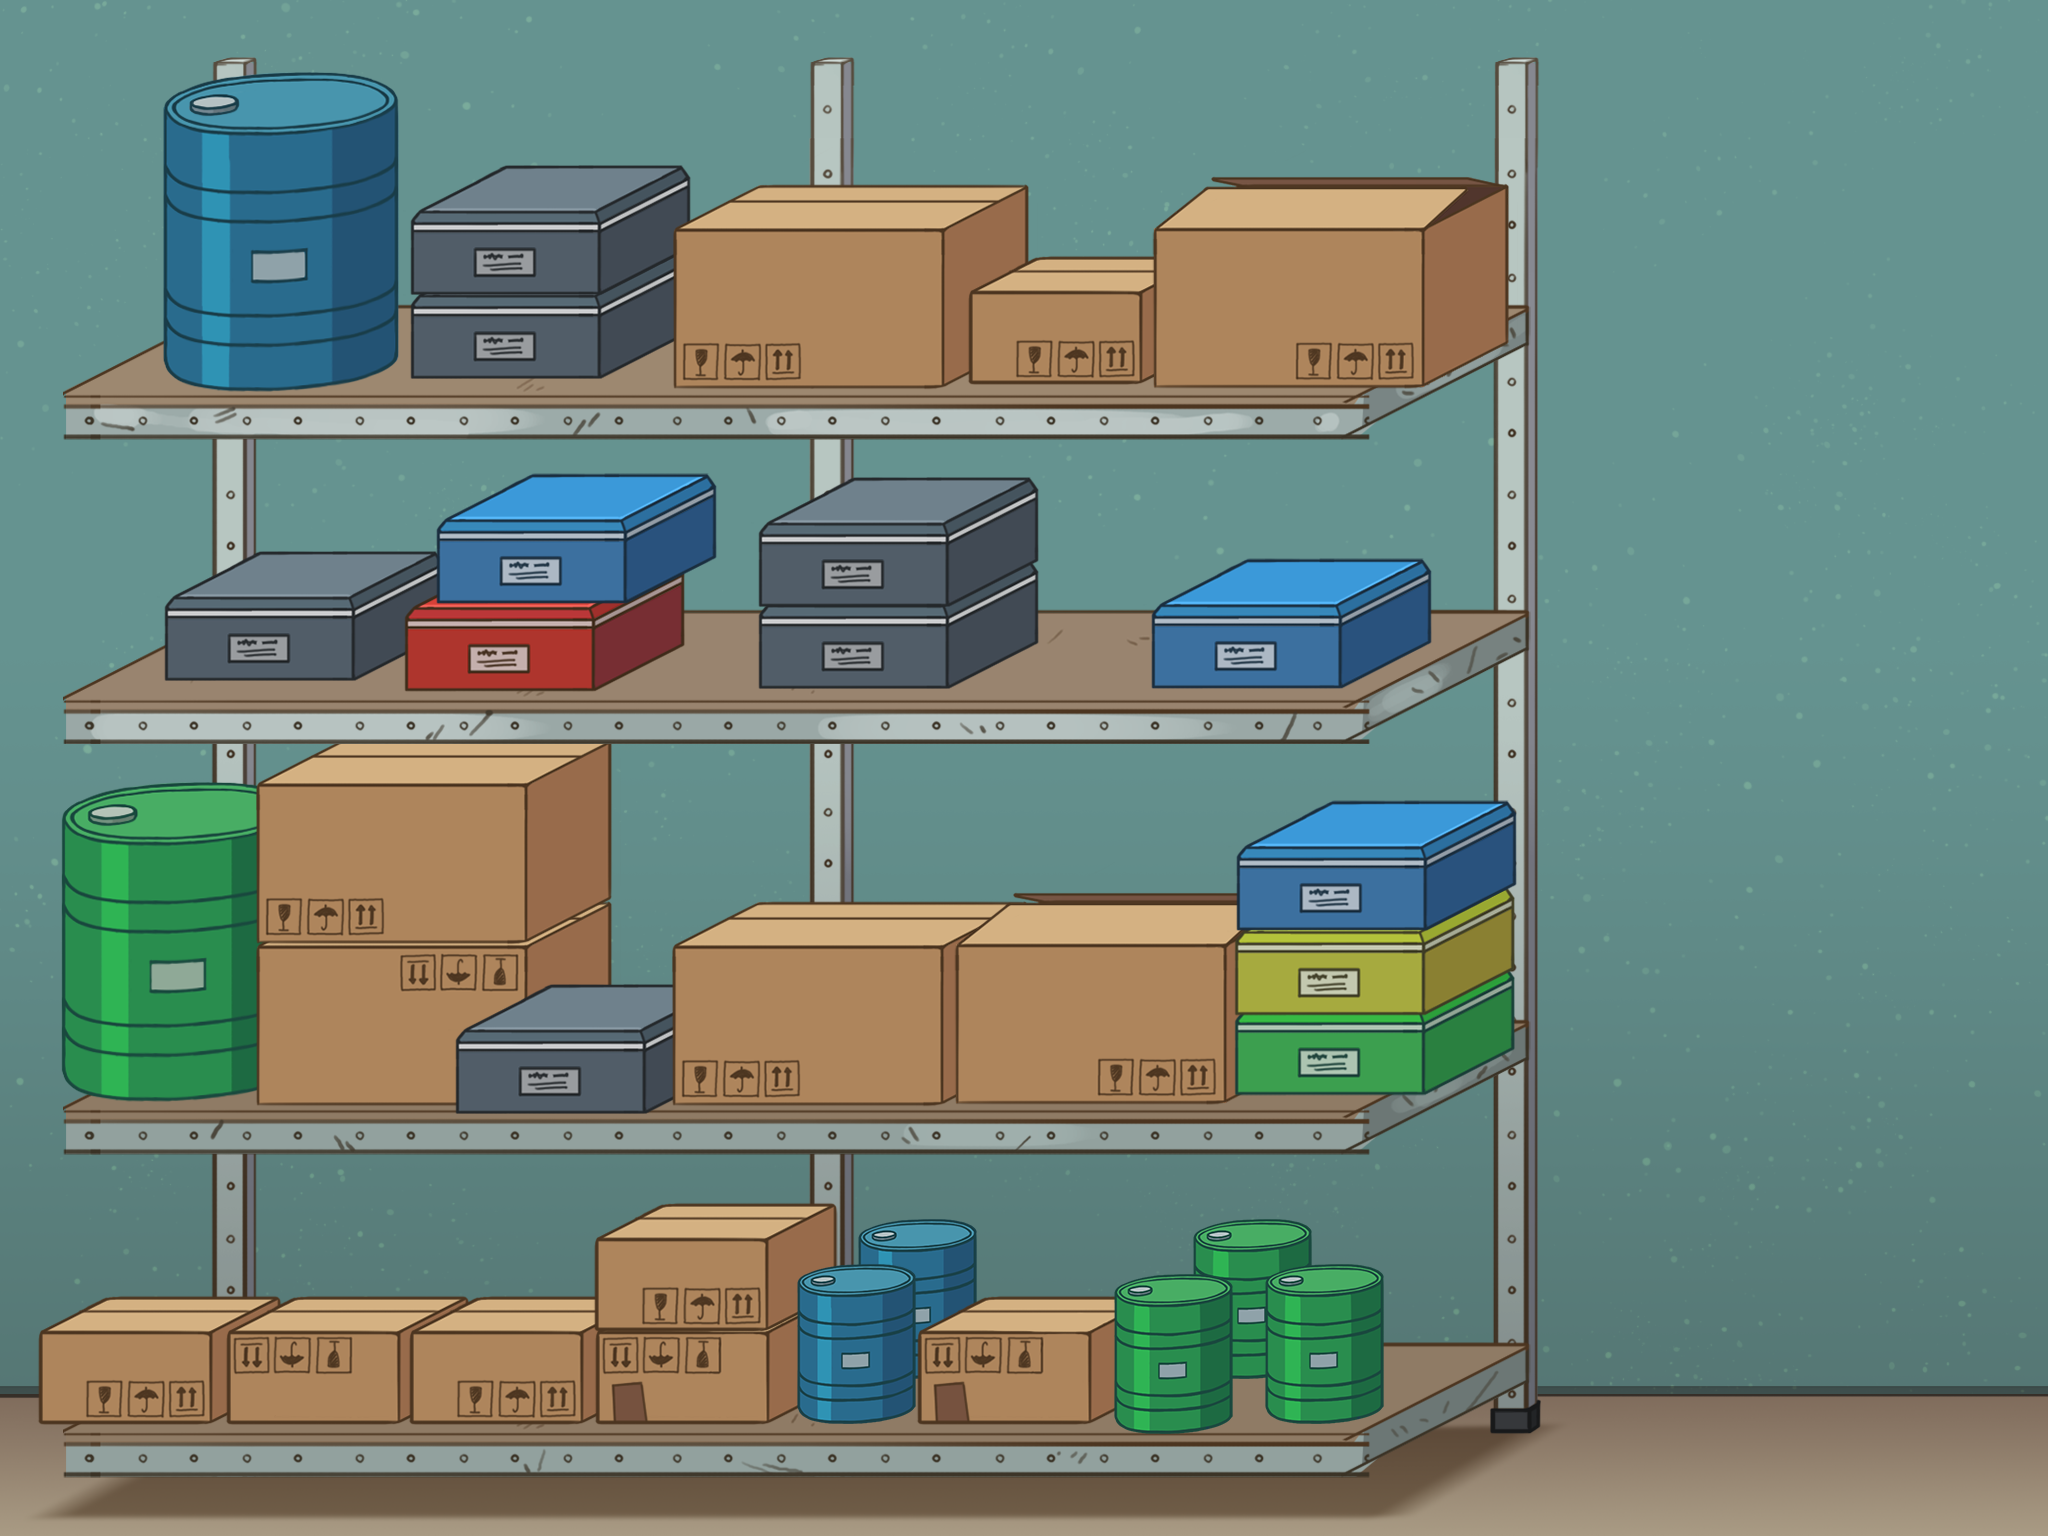
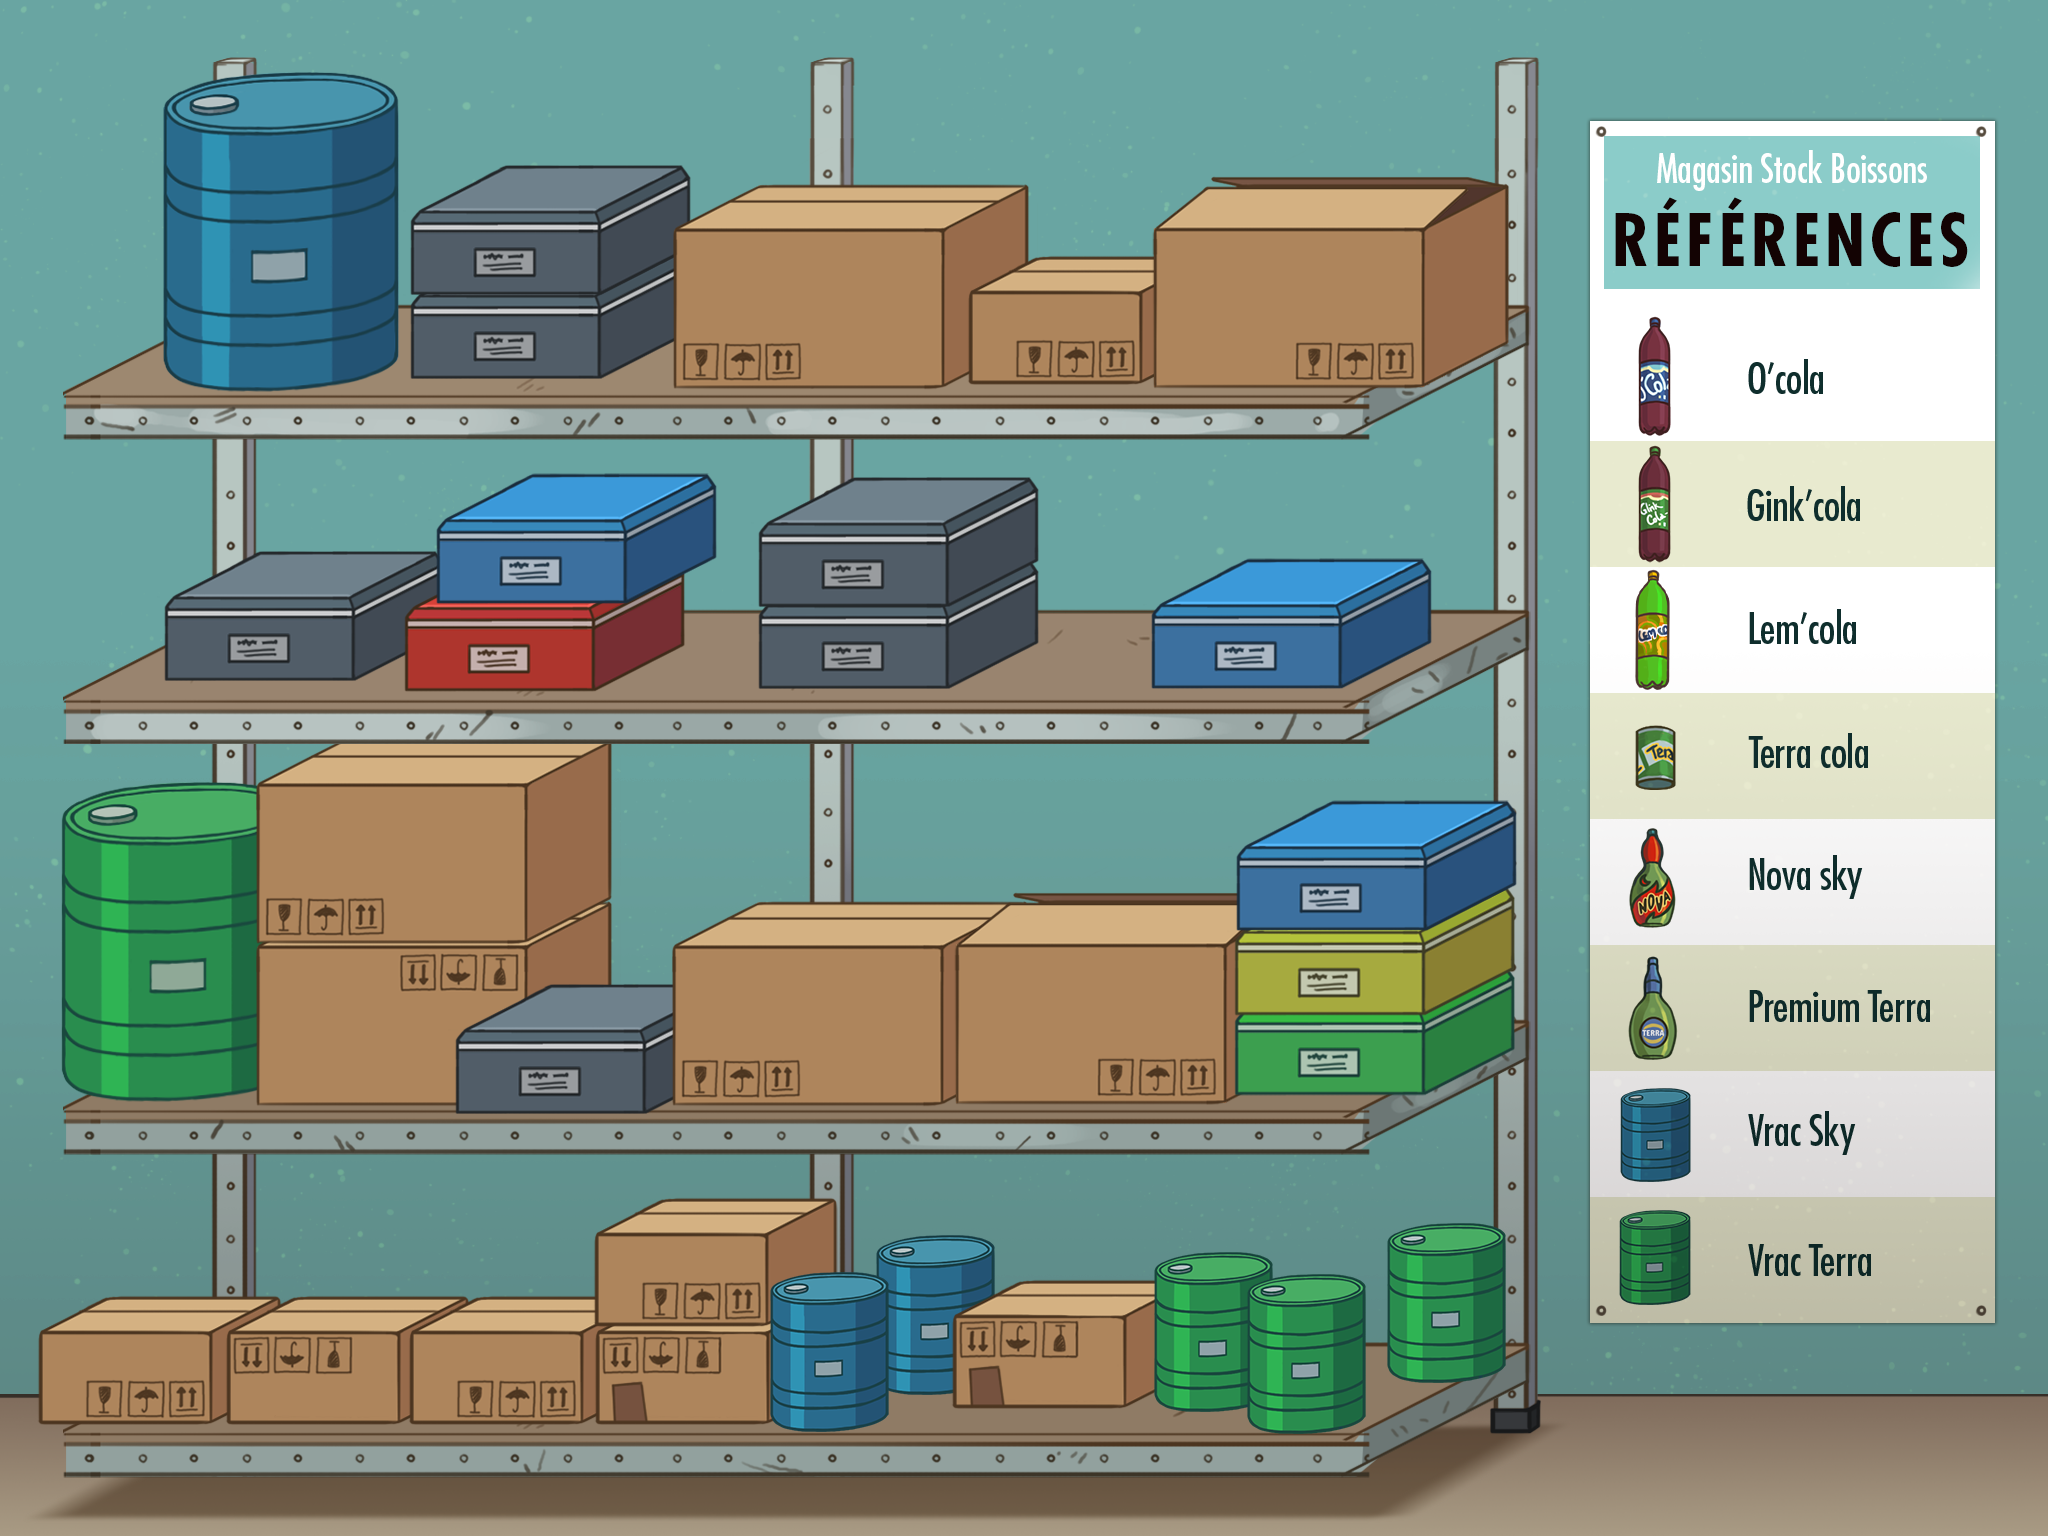
Intégère la fiche de référence dans l'image de fond et ajuste la position des contenants

Changed region(s): [[0.2812, 0.0625, 1.0, 0.9375]]

diff --git a/src/situations/inventaire/data/stock.js b/src/situations/inventaire/data/stock.js
@@ -33,14 +33,13 @@ const contenants = [
   { id: '21', idContenu: '4', type: 'ContenantUnitaire', forme: 'petitCarton', quantite: 1, posX: 230, posY: 1420, imageOuvert: require('inventaire/assets/petit-carton-3.png') },
   { id: '22', idContenu: '5', type: 'ContenantUnitaire', forme: 'petitCarton', quantite: 4, posX: 410, posY: 1420, imageOuvert: require('inventaire/assets/petit-carton-4.png') },
   { id: '23', idContenu: '7', type: 'ContenantUnitaire', forme: 'petitCarton', quantite: 3, posX: 600, posY: 1420, imageOuvert: require('inventaire/assets/petit-carton-5.png') },
-  { id: '24', idContenu: '7', type: 'ContenantUnitaire', forme: 'petitCarton', quantite: 0, posX: 600, posY: 1330, imageOuvert: require('inventaire/assets/petit-carton-vide.png') },
-  { id: '25', idContenu: '0', type: 'ContenantVrac', forme: 'petitBaril', quantite: 8, posX: 860, posY: 1365, imageOuvert: require('inventaire/assets/vrac-sky-8.png') },
-  { id: '26', idContenu: '0', type: 'ContenantVrac', forme: 'petitBaril', quantite: 13, posX: 799, posY: 1407, imageOuvert: require('inventaire/assets/vrac-sky-13.png') },
-  { id: '27', idContenu: '5', type: 'ContenantUnitaire', forme: 'petitCarton', quantite: 2, posX: 920, posY: 1420, imageOuvert: require('inventaire/assets/petit-carton-6.png') },
-  { id: '28', idContenu: '1', type: 'ContenantVrac', forme: 'petitBaril', quantite: 7, posX: 1195, posY: 1366, imageOuvert: require('inventaire/assets/vrac-terra-7.png') },
-  { id: '29', idContenu: '1', type: 'ContenantVrac', forme: 'petitBaril', quantite: 3, posX: 1115, posY: 1419, imageOuvert: require('inventaire/assets/vrac-terra-3.png') },
-  { id: '30', idContenu: '1', type: 'ContenantVrac', forme: 'petitBaril', quantite: 4, posX: 1267, posY: 1407, imageOuvert: require('inventaire/assets/vrac-terra-4.png') }
-
+  { id: '24', idContenu: '7', type: 'ContenantUnitaire', forme: 'petitCarton', quantite: 0, posX: 590, posY: 1330, imageOuvert: require('inventaire/assets/petit-carton-vide.png') },
+  { id: '25', idContenu: '0', type: 'ContenantVrac', forme: 'petitBaril', quantite: 8, posX: 770, posY: 1420, imageOuvert: require('inventaire/assets/vrac-sky-8.png') },
+  { id: '26', idContenu: '0', type: 'ContenantVrac', forme: 'petitBaril', quantite: 13, posX: 880, posY: 1380, imageOuvert: require('inventaire/assets/vrac-sky-13.png') },
+  { id: '27', idContenu: '5', type: 'ContenantUnitaire', forme: 'petitCarton', quantite: 2, posX: 955, posY: 1405, imageOuvert: require('inventaire/assets/petit-carton-6.png') },
+  { id: '28', idContenu: '1', type: 'ContenantVrac', forme: 'petitBaril', quantite: 7, posX: 1155, posY: 1395, imageOuvert: require('inventaire/assets/vrac-terra-7.png') },
+  { id: '29', idContenu: '1', type: 'ContenantVrac', forme: 'petitBaril', quantite: 3, posX: 1250, posY: 1417, imageOuvert: require('inventaire/assets/vrac-terra-3.png') },
+  { id: '30', idContenu: '1', type: 'ContenantVrac', forme: 'petitBaril', quantite: 4, posX: 1388, posY: 1365, imageOuvert: require('inventaire/assets/vrac-terra-4.png') }
 ];
 
 const contenus = {

diff --git a/src/app/situationInventaire.js b/src/app/situationInventaire.js
@@ -8,7 +8,6 @@ import { DepotJournal } from 'inventaire/infra/depot_journal.js';
 import { Journal } from 'inventaire/modeles/journal.js';
 import { creeMagasin } from 'inventaire/modeles/magasin.js';
 import { VueEtageres } from 'inventaire/vues/etageres.js';
-import { VueFicheReferences } from 'inventaire/vues/fiche_references.js';
 import { afficheCorrection, initialiseFormulaireSaisieInventaire } from 'inventaire/vues/formulaireSaisieInventaire.js';
 import { VueConsigne } from 'commun/vues/consigne.js';
 import { VueGo } from 'commun/vues/go.js';
@@ -19,14 +18,9 @@ import sonConsigneDemarrage from 'inventaire/assets/consigne_demarrage.mp3';
 function afficheMagasin (pointInsertion, $) {
   const session = uuidv4();
   const magasin = creeMagasin({ contenants, contenus });
-  const lignePrincipale = document.createElement('div');
   const journal = new Journal(Date.now, session, new DepotJournal());
-  lignePrincipale.classList.add('ligne-principale');
-  lignePrincipale.id = 'ligne-principale';
-  document.querySelector(pointInsertion).appendChild(lignePrincipale);
-  new VueEtageres('#ligne-principale', journal)
+  new VueEtageres(pointInsertion, journal)
     .affiche(magasin.contenants());
-  new VueFicheReferences('#ligne-principale').affiche();
 
   initialiseFormulaireSaisieInventaire(magasin, pointInsertion, $, function (resultatValidation, reponses) {
     const toutCorrect = Array.from(resultatValidation.values()).every(v => v);

diff --git a/src/situations/inventaire/vues/etageres.js b/src/situations/inventaire/vues/etageres.js
@@ -23,6 +23,7 @@ export class VueEtageres {
     const etageres = document.createElement('img');
     etageres.id = 'imageEtageres';
     etageres.src = imageEtageres;
+    etageres.classList.add('image-fond');
     this.element.appendChild(etageres);
 
     const calque = document.createElement('div');

diff --git a/src/situations/inventaire/styles/etageres.scss b/src/situations/inventaire/styles/etageres.scss
@@ -1,6 +1,6 @@
 .etageres {
   position: relative;
-  height: 96%;
+  height: 86%;
   margin: 2%;
 
   .avant-plan {
@@ -9,7 +9,7 @@
     left: 0;
   }
 
-  img {
+  .image-fond {
     max-height: 100%;
     max-width: 100%;
   }

diff --git a/src/situations/inventaire/styles/app.scss b/src/situations/inventaire/styles/app.scss
@@ -15,12 +15,4 @@ body {
     padding: 1rem;
     box-sizing: border-box;
   }
-
-  .ligne-principale {
-    position: absolute;
-    height:90%;
-    width: 100%;
-    display: flex;
-    flex-direction: row;
-  }
 }
